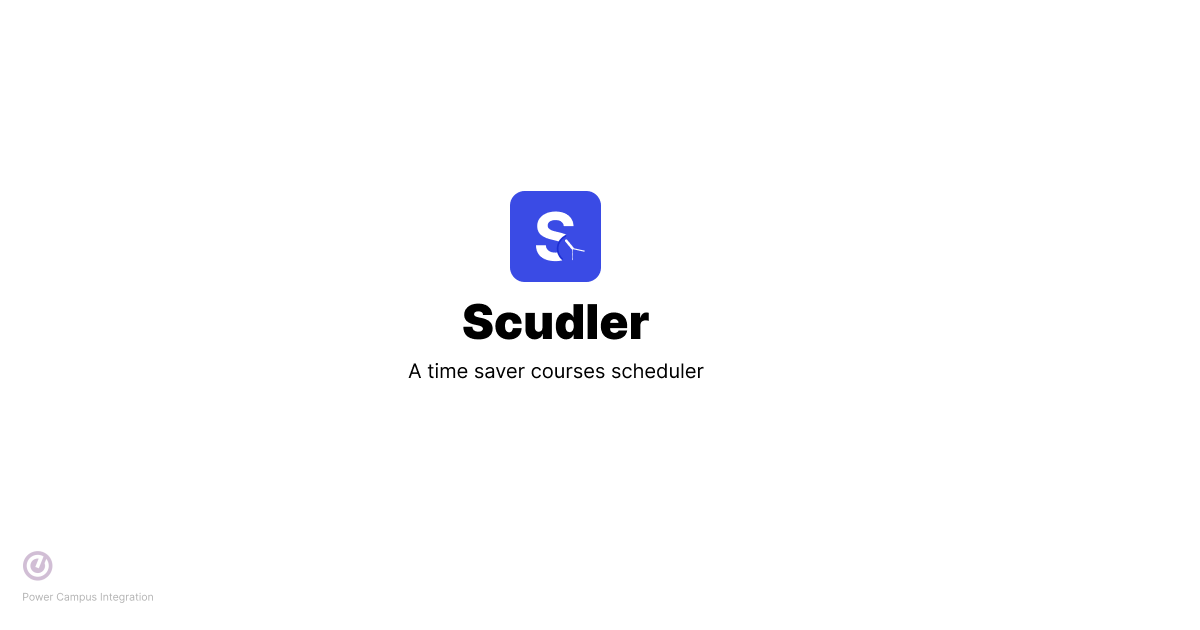
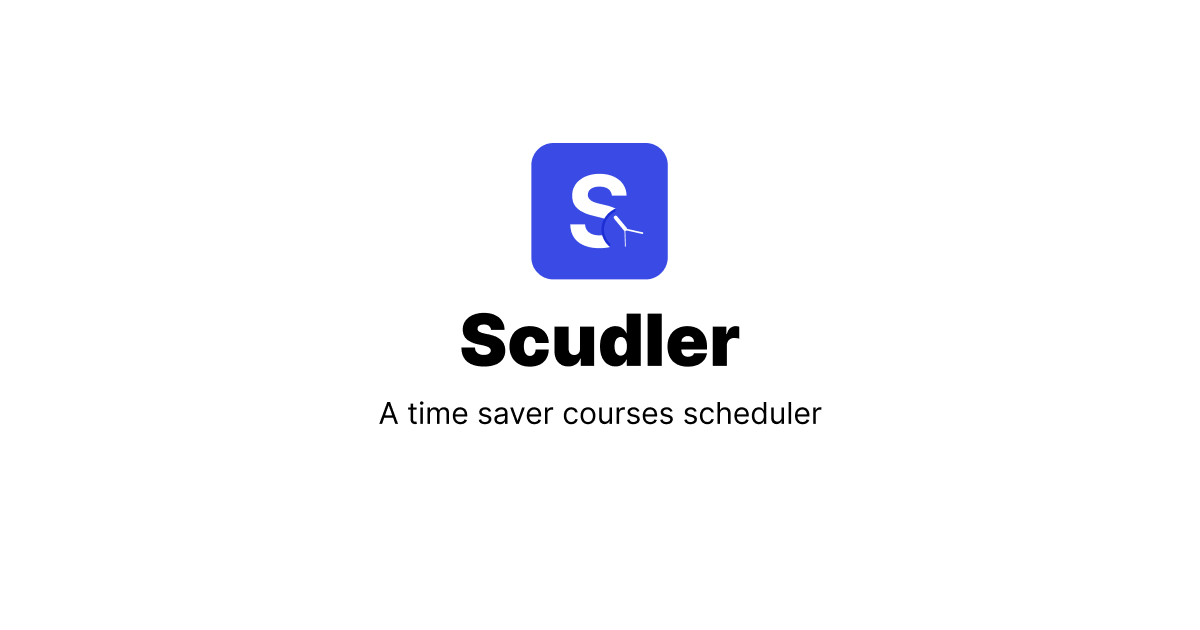
[UPDATE] update loading spinner on mobile & enlarge og image

diff --git a/app/components/Loading/Loading.tsx b/app/components/Loading/Loading.tsx
@@ -44,7 +44,7 @@ const spin = keyframes`
 const Spinner = styled.div`
   display: inline-block;
   width: ${clamp(40, 50)};
-  height: 50px;
+  width: ${clamp(40, 50)};
   border: 6px solid rgba(165, 183, 245, 0.3);
   border-radius: 50%;
   border-top-color: #2500fa;
